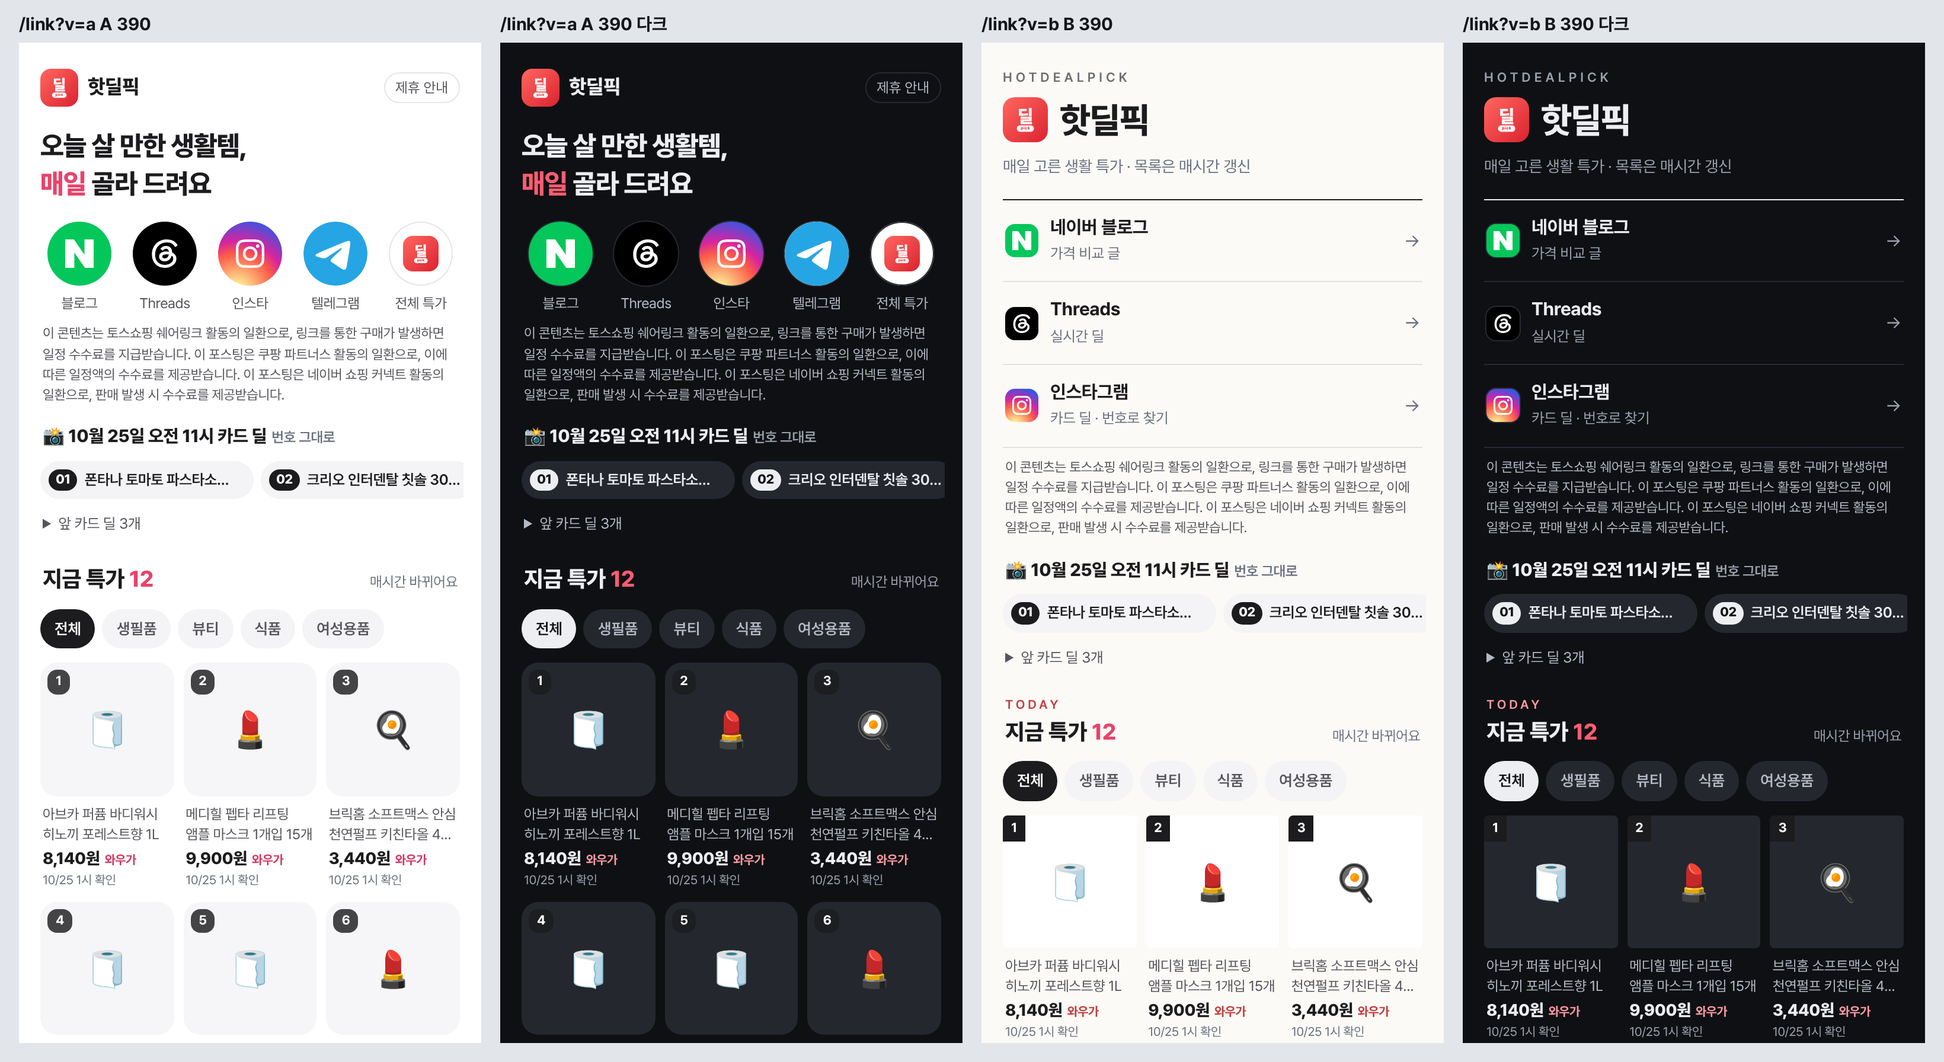
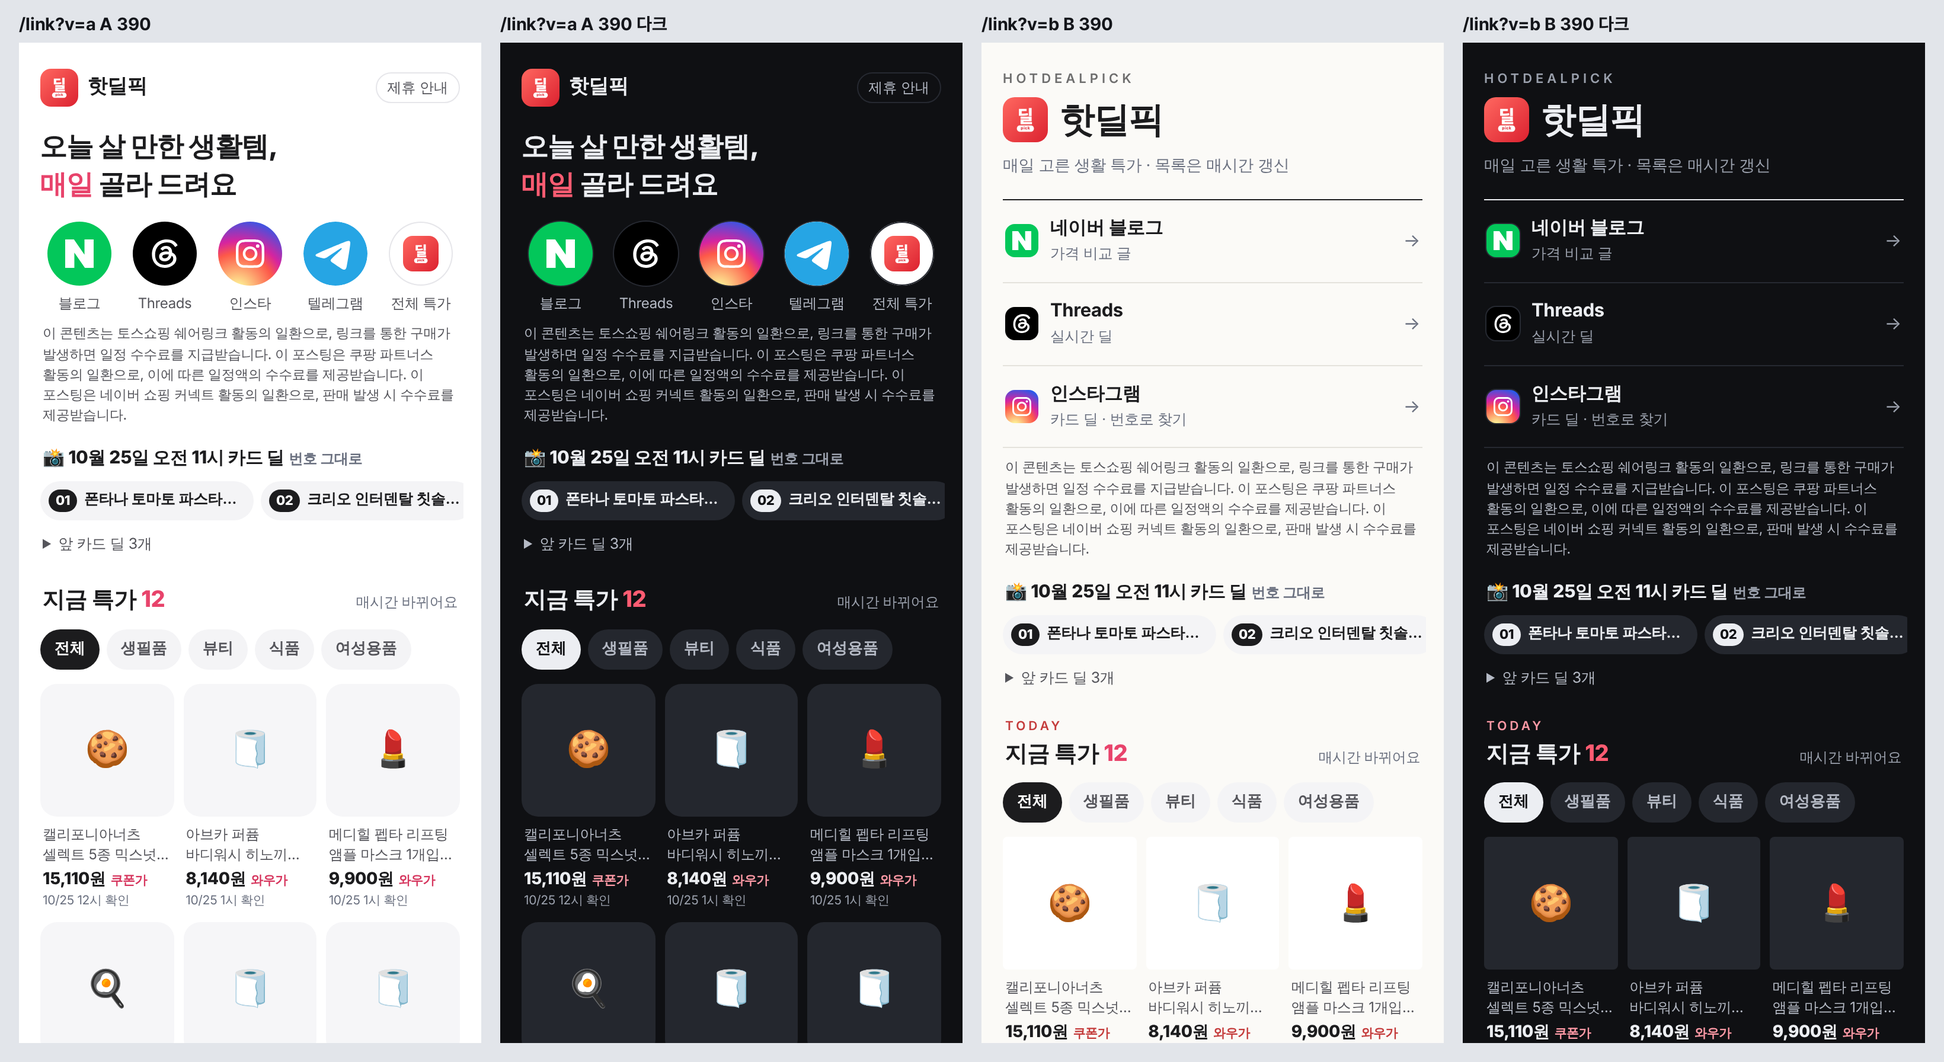
/link: 시스템 글꼴(/link만 — 첫 방문 317KB X) · 지금 특가 칸 번호 배지 뺌(인스타 번호 = 카드 딜 줄만, A·B 둘 다)
Claude-Session: https://claude.ai/code/session_0166LncLSude1PVe4eEqmcYn

diff --git a/test_pwa.js b/test_pwa.js
@@ -405,9 +405,10 @@ const STANDALONE = () => { const m = window.matchMedia.bind(window); window.matc
         await p.goto(U + u + '&ref=ig', { waitUntil: 'load' }); await p.waitForFunction(() => window.__gcl === 1);
         const s = await p.evaluate(() => { const R = e => e.getBoundingClientRect(), top = document.querySelector(document.documentElement.className === 'lb' ? '.vb' : '.va'), ch = [...top.querySelectorAll('nav a[data-gc]')], t1 = document.querySelector('#lg > a');
           return { sw: document.documentElement.scrollWidth, disc: R(document.querySelector('.disc')).bottom, ch: ch.map(a => a.getAttribute('data-gc')), chb: Math.max(...ch.map(a => R(a).bottom)), t1: t1 && R(t1).bottom,
-                   bg: getComputedStyle(document.body).backgroundColor, cls: document.documentElement.className, no: [...document.querySelectorAll('#lg > a:not([hidden]) .no')].map(b => +b.textContent) }; });
+                   bg: getComputedStyle(document.body).backgroundColor, cls: document.documentElement.className, no: document.querySelectorAll('#lg > a:not([hidden])').length, badge: document.querySelectorAll('#lg .no').length,
+                   font: getComputedStyle(document.body).fontFamily, fonts: performance.getEntriesByType('resource').filter(r => /\.woff2/.test(r.name)).length }; });
         const lum = s.bg.match(/[\d.]+/g).slice(0, 3).map(Number).reduce((a, b) => a + b, 0);
-        assert.ok(s.sw <= 390 && s.disc <= 844 && s.chb <= 844 && s.cls === 'l' + st && (dark ? lum < 120 : lum > 700) && s.no.join() === s.no.map((_, i) => i + 1).join() && s.no.length <= 12, '첫 화면·번호 1..n ' + u + dark + JSON.stringify(s));
+        assert.ok(s.sw <= 390 && s.disc <= 844 && s.chb <= 844 && s.cls === 'l' + st && (dark ? lum < 120 : lum > 700) && s.no <= 12 && !s.badge && !/HDP Sans/.test(s.font) && !s.fonts, '첫 화면·번호 배지 X·시스템 글꼴(글꼴 파일 X) ' + u + dark + JSON.stringify(s));
         if (st === 'a') assert.ok(!s.t1 || s.t1 <= 844 - (K ? 0 : 64), 'A 첫 화면 = 지금 특가 첫 줄까지(카톡 버튼 자리 남김) ' + s.t1);
         assert.deepStrictEqual(s.ch, [...(K ? ['link/kakao'] : []), ...(st === 'a' ? ['link/blog', 'link/threads', 'link/instagram', 'link/telegram', 'link/home'] : ['link/blog', 'link/threads', 'link/instagram'])], '채널 ' + u);
         if (st === 'a') {
@@ -417,10 +418,10 @@ const STANDALONE = () => { const m = window.matchMedia.bind(window); window.matc
         if (await p.$('#lg')) for (const k of await p.$$eval('.chips button', b => b.map(x => x.getAttribute('data-k')))) {
           await p.click(`.chips button[data-k="${k}"]`);
           const v = await p.evaluate(k => { const T = [...document.querySelectorAll('#lg > a')].filter(t => !t.hidden), r = T.slice(0, 3).map(t => t.getBoundingClientRect());
-            return { n: T.length, dn: +document.getElementById('dn').textContent, no: T.map(t => +t.querySelector('.no').textContent), k: T.every(t => (' ' + t.getAttribute('data-k') + ' ').includes(' ' + k + ' ')),
+            return { n: T.length, dn: +document.getElementById('dn').textContent, k: T.every(t => (' ' + t.getAttribute('data-k') + ' ').includes(' ' + k + ' ')),
                      on: [...document.querySelectorAll('.chips button')].filter(b => b.getAttribute('aria-pressed') === 'true').map(b => b.getAttribute('data-k')), ck: T.every(t => /\d+\/\d+ (\d+시 확인|가격)$/.test(t.querySelector('.ck').textContent)),
                      row: r.length < 3 || r[0].top === r[2].top && Math.abs(r[0].width - r[2].width) < 1, rel: T.every(t => /nofollow/.test(t.rel) && /sponsored/.test(t.rel) && t.target === '_blank'), sw: document.documentElement.scrollWidth }; }, k);
-          assert.ok(v.n > 0 && v.n <= 12 && v.dn === v.n && v.no.join() === v.no.map((_, i) => i + 1).join() && v.k && v.on.join() === k && v.ck && v.row && v.rel && v.sw <= 390, '칩 ' + k + ' ' + JSON.stringify(v));
+          assert.ok(v.n > 0 && v.n <= 12 && v.dn === v.n && v.k && v.on.join() === k && v.ck && v.row && v.rel && v.sw <= 390, '칩 ' + k + ' ' + JSON.stringify(v));
         }
         await p.click('.chips button[data-k="all"]').catch(() => {});
         if (ua === IOS) { await p.evaluate(() => scrollTo(0, 0)); const f = path.join(tmp, `lk${rl.length}.png`); await p.screenshot({ path: f }); rl.push([f, `/link?v=${st} ${st === 'a' ? 'A' : 'B'} 390${dark ? ' 다크' : ''}`]); }

diff --git a/build_site.py b/build_site.py
@@ -1567,8 +1567,7 @@ def si(k, cls="si"):
 LINK_CSS = """*{box-sizing:border-box}[hidden]{display:none!important}
 :root{--bg:#fff;--ink:#1C1C1E;--sub:#55555B;--mut:#6B7180;--line:#E6E6EA;--chip:#F4F4F6;--tile:#F6F6F8;--pk:#E8436B;--pke:#D6365E;color-scheme:light}
 @media(prefers-color-scheme:dark){:root{--bg:#0F1013;--ink:#ECEEF2;--sub:#B4B9C4;--mut:#9AA0AC;--line:#262931;--chip:#24272E;--tile:#24272E;--pk:#FF5C72;--pke:#FF9AA6;color-scheme:dark}}
-@font-face{font-family:"HDP Sans";src:url(/fonts/hdpsans-v1.woff2) format("woff2");font-weight:400 800;font-display:swap}
-body{margin:0;background:var(--bg);color:var(--ink);font:15px/1.5 "HDP Sans",-apple-system,BlinkMacSystemFont,"Apple SD Gothic Neo","Malgun Gothic",sans-serif;letter-spacing:-.2px;-webkit-font-smoothing:antialiased;word-break:keep-all;overflow-wrap:anywhere}
+body{margin:0;background:var(--bg);color:var(--ink);font:15px/1.5 -apple-system,BlinkMacSystemFont,"Apple SD Gothic Neo","Malgun Gothic",sans-serif;letter-spacing:-.2px;-webkit-font-smoothing:antialiased;word-break:keep-all;overflow-wrap:anywhere}
 main{max-width:480px;margin:0 auto;padding:22px calc(18px + env(safe-area-inset-right)) calc(28px + env(safe-area-inset-bottom)) calc(18px + env(safe-area-inset-left))}a{color:inherit;text-decoration:none}
 a:focus-visible,button:focus-visible,summary:focus-visible{outline:3px solid var(--pk);outline-offset:2px}
 .si{display:block;fill:currentColor}.disc{font-size:11.5px;color:var(--sub);line-height:1.5;margin:6px 2px 0}
@@ -1580,7 +1579,6 @@ a:focus-visible,button:focus-visible,summary:focus-visible{outline:3px solid var
 .g{display:grid;grid-template-columns:repeat(3,1fr);gap:10px 8px}.g a{min-width:0}.im{position:relative;aspect-ratio:1;border-radius:14px;overflow:hidden;background:var(--tile)}
 .im i{position:absolute;inset:0;display:grid;place-items:center;font-size:30px;font-style:normal}.im img{position:absolute;inset:0;width:100%;height:100%;object-fit:contain;mix-blend-mode:multiply;background:#fff}
 @media(prefers-color-scheme:dark){.im img{mix-blend-mode:normal}}
-.no{position:absolute;left:6px;top:6px;background:rgba(28,28,30,.82);color:#fff;font-size:11px;font-weight:700;border-radius:8px;padding:2px 7px}
 .nm{font-size:12px;line-height:1.38;height:33px;overflow:hidden;margin:7px 2px 2px;color:var(--sub);display:-webkit-box;-webkit-line-clamp:2;-webkit-box-orient:vertical}.pr{font-size:14px;font-weight:800;margin:0 2px}.pr em{font-style:normal;font-size:10.5px;font-weight:700;color:var(--pke);margin-left:4px}.ck{font-size:10.5px;color:var(--mut);margin:0 2px}
 .all{display:block;text-align:center;font-weight:700;font-size:15px;margin:22px 0 0;padding:13px;border-radius:14px;background:var(--chip)}.ft{font-size:11px;color:var(--mut);line-height:1.5;margin:10px 2px 0;text-align:center}
 .vb,.eb2{display:none}.lb .vb,.lb .eb2{display:block}.lb .va{display:none}
@@ -1595,7 +1593,7 @@ html.lb body{background:#FBFAF7}@media(prefers-color-scheme:dark){html.lb body{b
 .vb h1{display:flex;align-items:center;gap:10px;font-size:30px;font-weight:800;margin:4px 0 6px;letter-spacing:-.8px}.lgb{width:38px;height:38px;border-radius:10px}.tg{font-size:13.5px;color:var(--mut);margin:0}
 .list{margin:18px 0 8px;border-top:1px solid var(--ink)}.list a{display:flex;align-items:center;gap:10px;padding:13px 2px;border-bottom:1px solid #E4E2DC}@media(prefers-color-scheme:dark){.list a{border-color:var(--line)}}
 .bi{flex:none;width:28px;height:28px;border-radius:8px;display:flex;align-items:center;justify-content:center;color:#fff}.bi .si{width:16px;height:16px}.list b{display:block;font-size:15.5px;font-weight:700;line-height:1.3}.list small{font-size:12.5px;color:var(--mut)}.list i{margin-left:auto;font-style:normal;color:var(--mut)}
-.lb .sec{align-items:flex-end}.lb .sec h2{font-size:19px}.lb .cd h2{font-size:15px}.sec h2 .eb2{font-size:10.5px;letter-spacing:2.5px;color:#C43B3B;font-weight:600;margin-bottom:2px}.lb .im{border-radius:4px;background:#fff}.lb .no{left:0;top:0;border-radius:0;background:#1C1C1E;padding:3px 7px}.lb .pr em{color:#C43B3B}
+.lb .sec{align-items:flex-end}.lb .sec h2{font-size:19px}.lb .cd h2{font-size:15px}.sec h2 .eb2{font-size:10.5px;letter-spacing:2.5px;color:#C43B3B;font-weight:600;margin-bottom:2px}.lb .im{border-radius:4px;background:#fff}.lb .pr em{color:#C43B3B}
 @media(prefers-color-scheme:dark){.lb .im{background:var(--tile)}.lb .pr em,.sec h2 .eb2{color:var(--pke)}}"""
 LINK_V = ("(function(){var f=(location.search.match(/[?&]v=([ab])(?:&|$)/)||[])[1],v=f;if(!v){try{v=localStorage.getItem('hp_link')}catch(e){}"  # A·B 반반: 주소 v= 고정(저장·집계 X) > 이 브라우저에 정해진 쪽 > 50:50 무작위(저장 안 되면 이번만)
           "if(v!=='a'&&v!=='b'){v=Math.random()<.5?'a':'b';try{localStorage.setItem('hp_link',v)}catch(e){}}}document.documentElement.className='l'+v;window.hpLV=v;window.hpLF=!!f;"
@@ -1605,7 +1603,7 @@ LINK_GC = ("document.addEventListener('click',function(e){var a=e.target.closest
            "goatcounter.count({path:g,title:(a.textContent||'').trim().slice(0,80),event:true})})")
 LINK_JS = """<script>(function(){var G=document.getElementById('lg'),N=document.getElementById('dn'),B=document.querySelectorAll('.chips button');
 [].forEach.call(B,function(b){b.addEventListener('click',function(){var k=b.getAttribute('data-k'),n=0;[].forEach.call(B,function(x){x.setAttribute('aria-pressed',x===b?'true':'false')});
-[].forEach.call(G.children,function(t){var on=(' '+t.getAttribute('data-k')+' ').indexOf(' '+k+' ')>=0;t.hidden=!on;if(on)t.querySelector('.no').textContent=++n});N.textContent=n})});
+[].forEach.call(G.children,function(t){var on=(' '+t.getAttribute('data-k')+' ').indexOf(' '+k+' ')>=0;t.hidden=!on;if(on)n++});N.textContent=n})});
 var a=document.querySelector('.ad');if(a)a.addEventListener('click',function(){var p=document.getElementById('adw'),o=p.hidden;p.hidden=!o;a.setAttribute('aria-expanded',o?'true':'false')})})()</script>"""
 
 
@@ -1638,14 +1636,14 @@ def link_tabs(pool):
     return [(*x, [k for k, _ in LINK_TABS if x[0] in on[k]]) for x in pool if any(x[0] in s for s in on.values())], {k: len(s) for k, s in on.items()}
 
 
-def link_tile(n, i, p, sh, ks):
-    """상품 칸: 정사각 사진(없으면 품목 이모지) + 왼쪽 위 번호 + 이름 2줄 + 가격 800·작은 분홍(와우가·쿠폰가) + 기준 시각(link_when) — 누르면 바로 몰."""
+def link_tile(i, p, sh, ks):
+    """상품 칸: 정사각 사진(없으면 품목 이모지 — 번호 배지 X: 인스타 번호는 카드 딜 줄 01·02…, 10/25 Cowork) + 이름 2줄 + 가격 800·작은 분홍(와우가·쿠폰가) + 기준 시각(link_when) — 누르면 바로 몰."""
     shown, ex, _ = price_bits(p, sh)
     em = ex[0] if shop_of(p) != "toss" and ex and len(ex[0]) <= 8 else ""
     c, u = CAT_META.get(cat_of(p)), img_of(p)
     pic = f'<img src="{html.escape(u)}" alt="" loading="lazy" decoding="async" referrerpolicy="no-referrer" onerror="this.remove()">' if u else ""
     return (f'<a href="{html.escape(go_url(i, p))}" rel="nofollow sponsored noopener" target="_blank" data-k="{" ".join(ks)}"' + ("" if "all" in ks else " hidden")
-            + f'><div class="im"><i aria-hidden="true">{c[2] if c else "🛍"}</i>{pic}<b class="no">{n}</b></div><div class="nm">{html.escape(link_name(p))}</div>'
+            + f'><div class="im"><i aria-hidden="true">{c[2] if c else "🛍"}</i>{pic}</div><div class="nm">{html.escape(link_name(p))}</div>'
             + f'<div class="pr">{html.escape(shown)}' + (f'<em>{html.escape(em)}</em>' if em else "") + f'</div><div class="ck">{html.escape(link_when(p, sh))}</div></a>')
 
 
@@ -1679,13 +1677,13 @@ def link_top(style, kakao):
 def link_page(style, posts, it, out, alt=False, today=None):
     """/link 프로필 링크 한 장(10/25 진우 — 인스타는 글·댓글 링크가 안 눌려서 프로필 링크 하나에 채널 + 지금 특가, 외부 서비스 X): 인스타·Threads·카톡방 공지·블로그 끝에 이 주소.
     style 'ab' = 머리 블록 A·B 둘 다 넣고 JS(LINK_V)가 하나만(html.la/.lb — JS 꺼짐 = A, 리다이렉트 X) · 'a'|'b' = 그 시안만. 아래는 공용(B는 클래스로 모양만): 3사 대가성 문구 → 오늘 카드 딜 번호 줄 → 지금 특가 12(칩) → 전체 특가 보기.
-    가볍게(사이트 CSS·검색·메뉴·서비스워커 X, 쪽 안 CSS·아이콘) · 측정 = GoatCounter(ab = 가상 경로 link-a·link-b + link-a/채널·buy/link-a/몰, 미리보기 = 그 쪽 경로) · alt = 미리보기(noindex)."""
+    가볍게(사이트 CSS·검색·메뉴·서비스워커·사이트 글꼴 X — 시스템 글꼴(10/25 Cowork, 인스타 앱 안 첫 방문 317KB X), 쪽 안 CSS·아이콘) · 측정 = GoatCounter(ab = 가상 경로 link-a·link-b + link-a/채널·buy/link-a/몰, 미리보기 = 그 쪽 경로) · alt = 미리보기(noindex)."""
     today = today or time.strftime("%Y-%m-%d", time.gmtime(time.time() + 9 * 3600))
     rows, n = link_tabs(link_pool(it, today))
     kakao = html.escape(KAKAO_OPENCHAT_URL) if re.match(r"https://open\.kakao\.com/", KAKAO_OPENCHAT_URL) else ""
     deals = rows and (f'<section aria-labelledby="dh"><div class="sec"><h2 id="dh"><span class="eb2">TODAY</span>지금 특가 <span id="dn">{n["all"]}</span></h2><small>매시간 바뀌어요</small></div><div class="chips" role="group" aria-label="품목 고르기">'
                       + "".join(f'<button type="button" data-k="{k}" aria-pressed="{"true" if k == "all" else "false"}">{nm}</button>' for k, nm in LINK_TABS if n[k])
-                      + '</div><div class="g" id="lg">' + "".join(link_tile(k, *x) for k, x in enumerate(rows, 1)) + "</div></section>") or ""
+                      + '</div><div class="g" id="lg">' + "".join(link_tile(*x) for x in rows) + "</div></section>") or ""
     url = f"{BASE}link/" + (f"{style}/" if alt else "")
     t, d = f"{TITLE} — 채널·지금 특가 한 번에", "카톡 특가방·블로그·Threads·인스타·텔레그램과 지금 특가 12개를 한 곳에. 쿠팡·토스·네이버 생활 특가를 매일 골라요."
     kst = time.gmtime(time.time() + 9 * 3600)

diff --git a/test_hotdeal.py b/test_hotdeal.py
@@ -1569,7 +1569,7 @@ assert all(f'href="{u}" data-gc="link/{k}"' in va3 for k, _, u, *_ in S.LINK_CH)
 assert lk3.index('<p class="disc">') < lk3.index('<section class="cd"') and '<span>매일</span> 골라 드려요' in va3 and "목록은 매시간 갱신" in vb3 and "가격은 매시간 확인" not in lk3 and '<i style="background:#fff;color:#26A5E4"><svg class="si fl"' in va3  # 텔레그램 = 아이콘 원 그대로
 for k in ("kakaotalk", "naver", "threads", "instagram", "telegram"):  # 아이콘 모양 = Simple Icons 파일 그대로(변형 X)
     d3 = re.search(r'<path d="([^"]+)"', open(os.path.join(RD, "si", k + ".svg")).read())[1]; assert f'<path d="{d3}"/>' in S.si(k) and S.si(k).startswith('<svg class="si" viewBox="0 0 24 24" aria-hidden="true">')
-assert re.findall(r'<script[^>]* src="([^"]+)"', lk3) == ["//gc.zgo.at/count.js"] and "<link rel=\"stylesheet\"" not in lk3 and 'rel="preload"' not in lk3 and "cdn" not in lk3 and "serviceWorker" not in lk3  # 쪽 안 CSS·아이콘 · 웹앱 미리 받기·글꼴 미리 받기 X
+assert "HDP Sans" not in S.LINK_CSS and "hdpsans" not in lk3 and re.findall(r'<script[^>]* src="([^"]+)"', lk3) == ["//gc.zgo.at/count.js"] and "<link rel=\"stylesheet\"" not in lk3 and 'rel="preload"' not in lk3 and "cdn" not in lk3 and "serviceWorker" not in lk3  # 쪽 안 CSS·아이콘 · 웹앱 미리 받기·글꼴 미리 받기 X
 assert "/^link\\//,'link-'+v+'/'" in S.LINK_GC and "'buy/'+(v?'link-'+v+'/':'')" in S.LINK_GC and "window.hpLF)return" in S.LINK_GC and "g.no_onload=true" in S.LINK_V and "return 'link-'+v" in S.LINK_V and "localStorage.setItem('hp_link',v)" in S.LINK_V
 sk3 = S.KAKAO_OPENCHAT_URL
 for bad in ("javascript:alert(1)", "https://open.kakao.com.evil.x/o/a", "http://open.kakao.com/o/a"):  # https://open.kakao.com/ 주소만(10/25 리뷰)
@@ -1586,9 +1586,9 @@ L3 = [(0, lp("일반몰", "https://x.com/a", IMG), H0), (1, lp("토스 휴지", 
       (5, lp("특가 휴지 사진X", "https://link.coupang.com/a/n"), H0), (6, lp("옛 특가 휴지", "https://link.coupang.com/a/v", IMG, at="2026-10-20 09:00"), H0),
       (7, lp("링크프라이스 화장지", "https://click.linkprice.com/x", mall="G마켓"), H0), (8, {"t": "2026-10-25 09:00", "text": "🔥 [쿠팡] 가격 없는 휴지", "url": "https://link.coupang.com/a/z", "own": 1}, H0)]
 assert [x[0] for x in S.link_pool(L3, "2026-10-25")] == [4, 1, 5] and [x[0] for x in S.link_pool(L3, "2026-10-22")] == [4, 6, 1, 5]  # 10/20 가격 = 10/25엔 3일 넘음
-t4 = S.link_tile(1, *S.link_pool(L3, "2026-10-25")[0], ["all", "life"])
-assert t4.startswith('<a href="https://link.coupang.com/a/h" rel="nofollow sponsored noopener" target="_blank" data-k="all life">') and '<div class="pr">8,900원<em>쿠폰가</em></div><div class="ck">10/25 9시 확인</div>' in t4 and 'loading="lazy"' in t4 and '<b class="no">1</b>' in t4
-assert '<div class="pr">9,900원</div><div class="ck">10/25 가격</div>' in S.link_tile(2, *S.link_pool(L3, "2026-10-25")[1], ["all"]) and S.link_tile(9, *S.link_pool(L3, "2026-10-25")[2], ["beauty"]).split(">")[0].endswith(" hidden")  # 토스 = 올린 날 · 전체 밖 = 처음엔 숨김
+t4 = S.link_tile(*S.link_pool(L3, "2026-10-25")[0], ["all", "life"])
+assert t4.startswith('<a href="https://link.coupang.com/a/h" rel="nofollow sponsored noopener" target="_blank" data-k="all life">') and '<div class="pr">8,900원<em>쿠폰가</em></div><div class="ck">10/25 9시 확인</div>' in t4 and 'loading="lazy"' in t4 and 'class="no"' not in t4  # 번호 배지 X(인스타 번호 = 카드 딜 줄 — 10/25 Cowork)
+assert '<div class="pr">9,900원</div><div class="ck">10/25 가격</div>' in S.link_tile(*S.link_pool(L3, "2026-10-25")[1], ["all"]) and S.link_tile(*S.link_pool(L3, "2026-10-25")[2], ["beauty"]).split(">")[0].endswith(" hidden")  # 토스 = 올린 날 · 전체 밖 = 처음엔 숨김
 assert [S.link_name({"text": f"🔥 {t}"}) for t in ("[토스] 해표 올리브유 500ml 4병 22,900원", "[토스] 마스크팩 10매 6,900원 (무배)", "[쿠팡] 1000원샵 키링 (1,000원)", "[G마켓] 물티슈 20매 12팩(8900/무배)", "[쿠팡] 육개장 사발면 24개/쿠폰가 16,830원, 첫구매 14,800원",
                                                        "[11번가] 휴지 30롤 22,900원/무료", "[옥션] 카스 제로 2캔 [3,000원/네멤무료]", "[쿠팡] 100원 동전지갑")] == ["해표 올리브유 500ml 4병", "마스크팩 10매", "1000원샵 키링", "물티슈 20매 12팩", "육개장 사발면 24개", "휴지 30롤", "카스 제로 2캔", "100원 동전지갑"]  # 이름 끝 가격 = 시각 없는 가격 X
 BIG = [(i, lp(f"휴지{i}" if i % 3 else f"샴푸{i}", f"https://link.coupang.com/a/{i}", IMG), H0) for i in range(40)]
@@ -1596,7 +1596,8 @@ rw3, n3 = S.link_tabs(S.link_pool(BIG, "2026-10-25"))
 assert n3["all"] == 12 and all(v <= 12 for v in n3.values()) and len({x[0] for x in rw3}) == len(rw3) and [x[0] for x in rw3 if "all" in x[3]] == list(range(12))
 big3 = S.link_page("ab", pp, BIG, "docs3", today="2026-10-25")
 assert len(big3.encode()) < 72000 and big3.count('rel="nofollow sponsored noopener"') == len(rw3) + cd3.count("nofollow sponsored") and '<h2 id="dh"><span class="eb2">TODAY</span>지금 특가 <span id="dn">12</span></h2>' in big3, len(big3.encode())  # 가볍게(긴 쿠팡 사진 주소여도)
-assert re.findall(r'<b class="no">(\d+)</b>', big3)[:12] == [str(k) for k in range(1, 13)] and " hidden>" not in big3.split('id="lg">')[1].split('<b class="no">13</b>')[0]  # 처음 번호 = 전체 칩 1~12(숨김 칸은 그 뒤)
+lg3 = re.findall(r'<a href="[^"]+" rel="nofollow sponsored noopener" target="_blank" data-k="([^"]+)"( hidden)?>', big3.split('id="lg">')[1])
+assert ["all" in k.split() for k, _ in lg3[:12]] == [True] * 12 and not any(h for _, h in lg3[:12]) and all(h for _, h in lg3[12:]) and 'class="no"' not in big3  # 처음 = 전체 칩 12칸(숨김 칸은 그 뒤) · 번호 배지 X
 assert '<button type="button" data-k="all" aria-pressed="true">전체</button>' in big3 and 'data-k="women"' not in big3.split('class="chips"')[1].split("</div>")[0] and S.link_page("ab", pp, BIG, "docs3", today="2026-10-29").count('<b class="no">') == 0  # 상품 없는 칩 X · 가격 3일 넘으면 칸 X
 os.makedirs("docs6/cards", exist_ok=True); open("docs6/cards/2026-10-08.png", "wb").close()  # 카드 = 5개까지(인스타 카드와 같은 수) · 링크프라이스·올리브영 = 딜 쪽(그 문구)으로
 pp6 = [{"t": "2026-10-08 09:00", "text": f"🔥 [쿠팡] 딜{k} (1,000원)", "url": f"https://link.coupang.com/a/{k}"} for k in range(7)] + [{"t": "2026-10-08 10:00", "text": "🔥 [G마켓] 프라이스 (1,000원)", "url": "https://click.linkprice.com/y"}]
